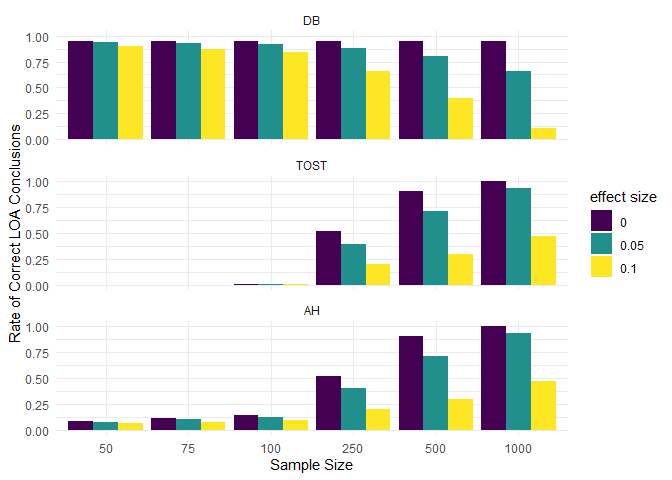
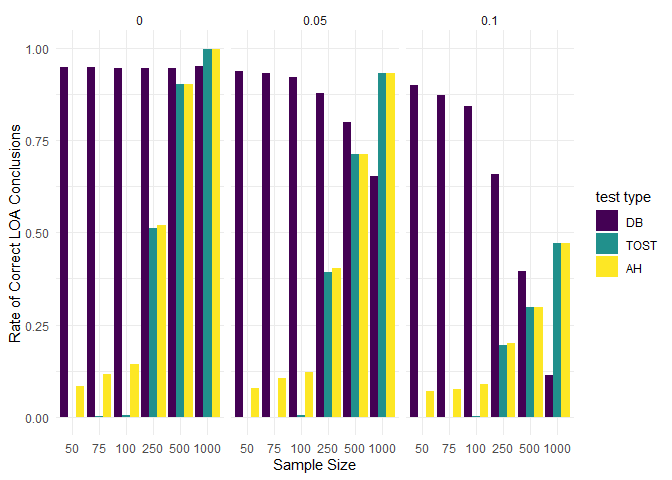
small changes

diff --git a/Simulation-Visualization.md b/Simulation-Visualization.md
@@ -56,11 +56,27 @@ View(incorrectLOA)
 
 ``` r
 ggplot(data = correctLOA) + 
+  geom_bar(mapping = aes(x = `sample size`, y= `LOA conclusion rate`, fill = `test type`),stat = "identity", position = "dodge")+ 
+  facet_wrap(~`effect size`)+theme_minimal()+labs(y="Rate of Correct LOA Conclusions", x = "Sample Size")
+```
+
+![](Simulation-Visualization_files/figure-gfm/unnamed-chunk-5-1.png)<!-- -->
+
+``` r
+ggplot(data = incorrectLOA) + 
+  geom_bar(mapping = aes(x = `sample size`, y= `LOA conclusion rate`, fill = `test type`),stat = "identity", position = "dodge")+ 
+  facet_grid(~`effect size`)+theme_minimal()+labs(y="Rate of Incorrect LOA Conclusions", x = "Sample Size")
+```
+
+![](Simulation-Visualization_files/figure-gfm/unnamed-chunk-6-1.png)<!-- -->
+
+``` r
+ggplot(data = correctLOA) + 
   geom_bar(mapping = aes(x = `sample size`, y= `LOA conclusion rate`, fill = `effect size`),stat = "identity", position = "dodge")+ 
   facet_wrap(~`test type`, nrow = 3)+theme_minimal()+labs(y="Rate of Correct LOA Conclusions", x = "Sample Size")
 ```
 
-![](Simulation-Visualization_files/figure-gfm/unnamed-chunk-5-1.png)<!-- -->
+![](Simulation-Visualization_files/figure-gfm/unnamed-chunk-7-1.png)<!-- -->
 
 ``` r
 ggplot(data = incorrectLOA) + 
@@ -68,4 +84,4 @@ ggplot(data = incorrectLOA) +
   facet_wrap(~`test type`, nrow = 3)+theme_minimal()+labs(y="Rate of Incorrect LOA Conclusions", x = "Sample Size")
 ```
 
-![](Simulation-Visualization_files/figure-gfm/unnamed-chunk-6-1.png)<!-- -->
+![](Simulation-Visualization_files/figure-gfm/unnamed-chunk-8-1.png)<!-- -->
